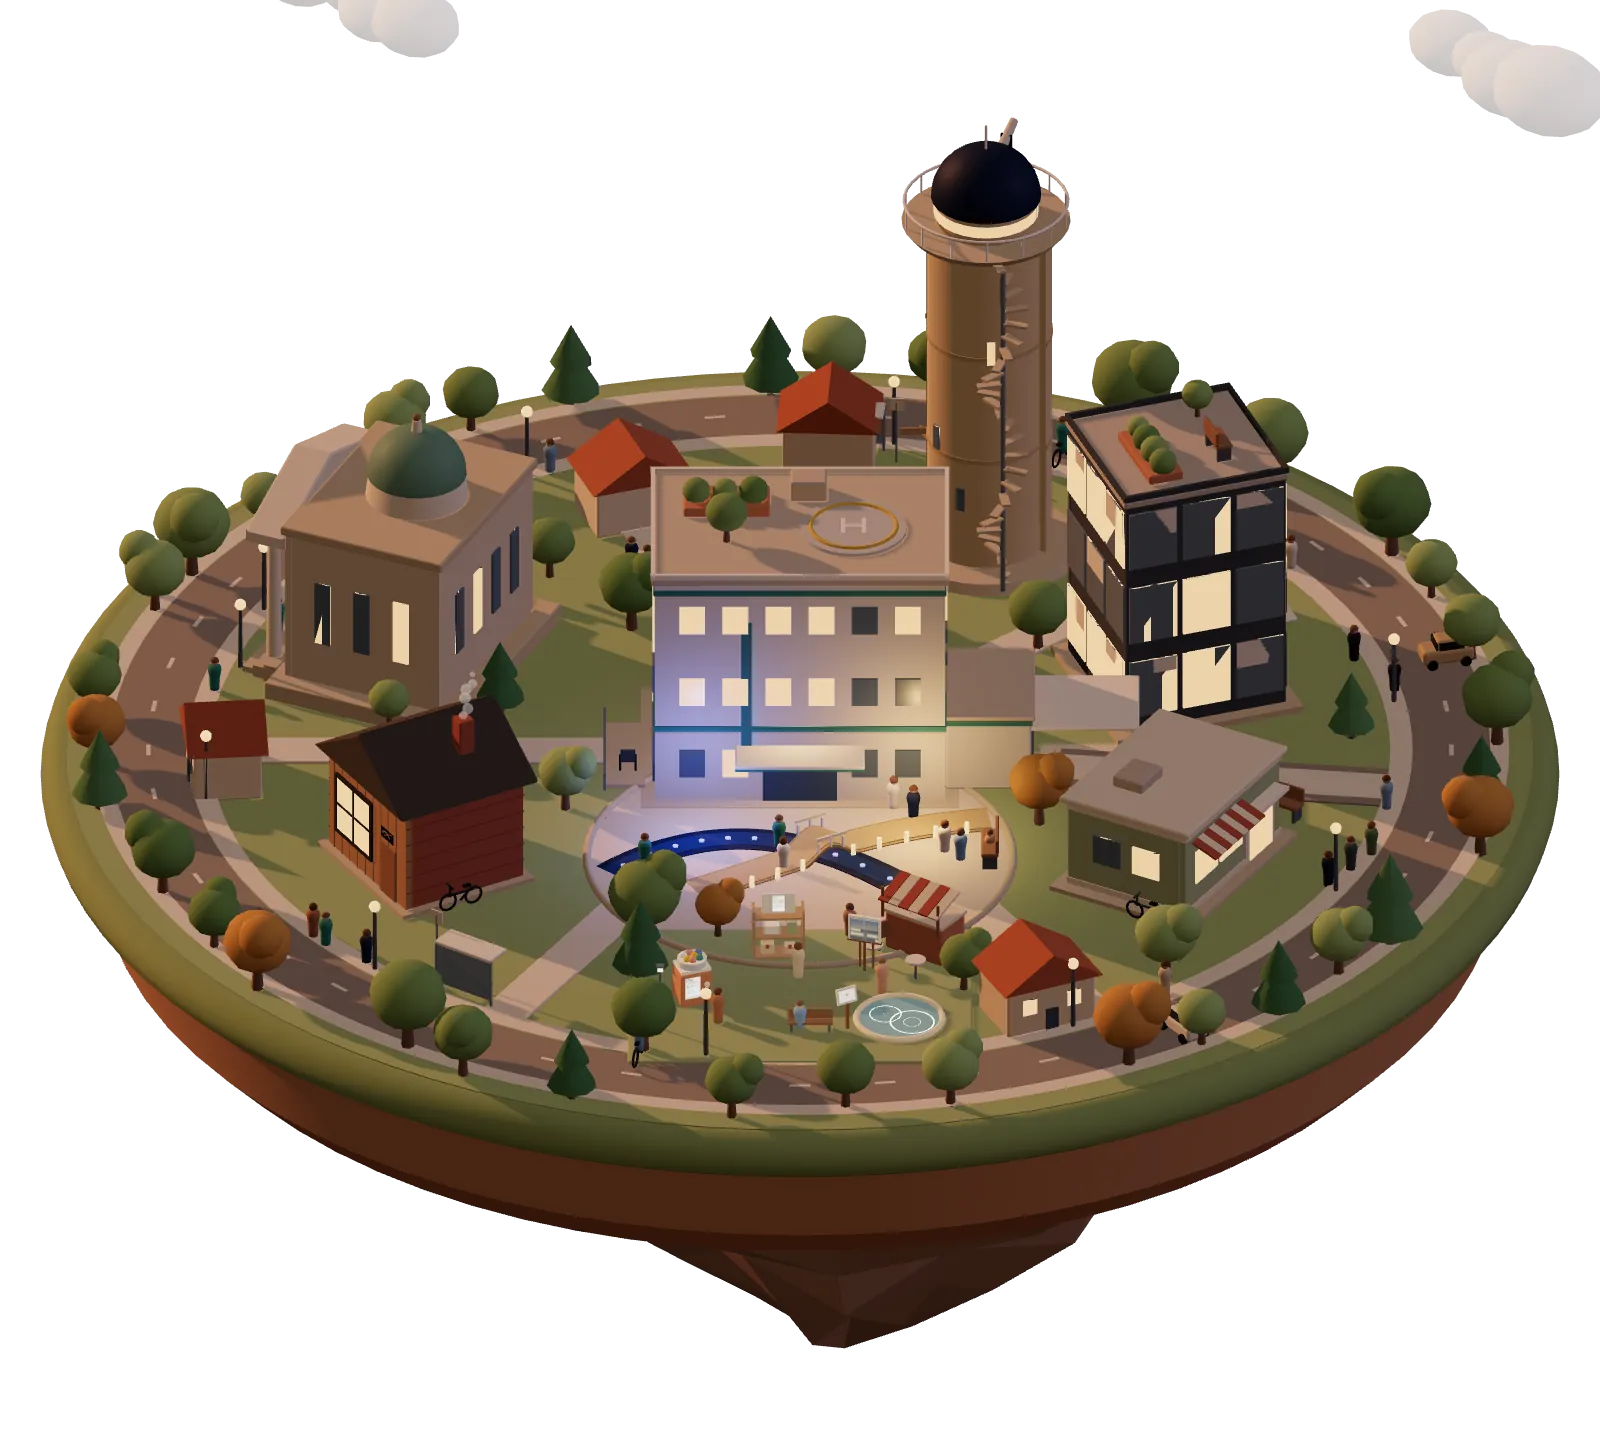
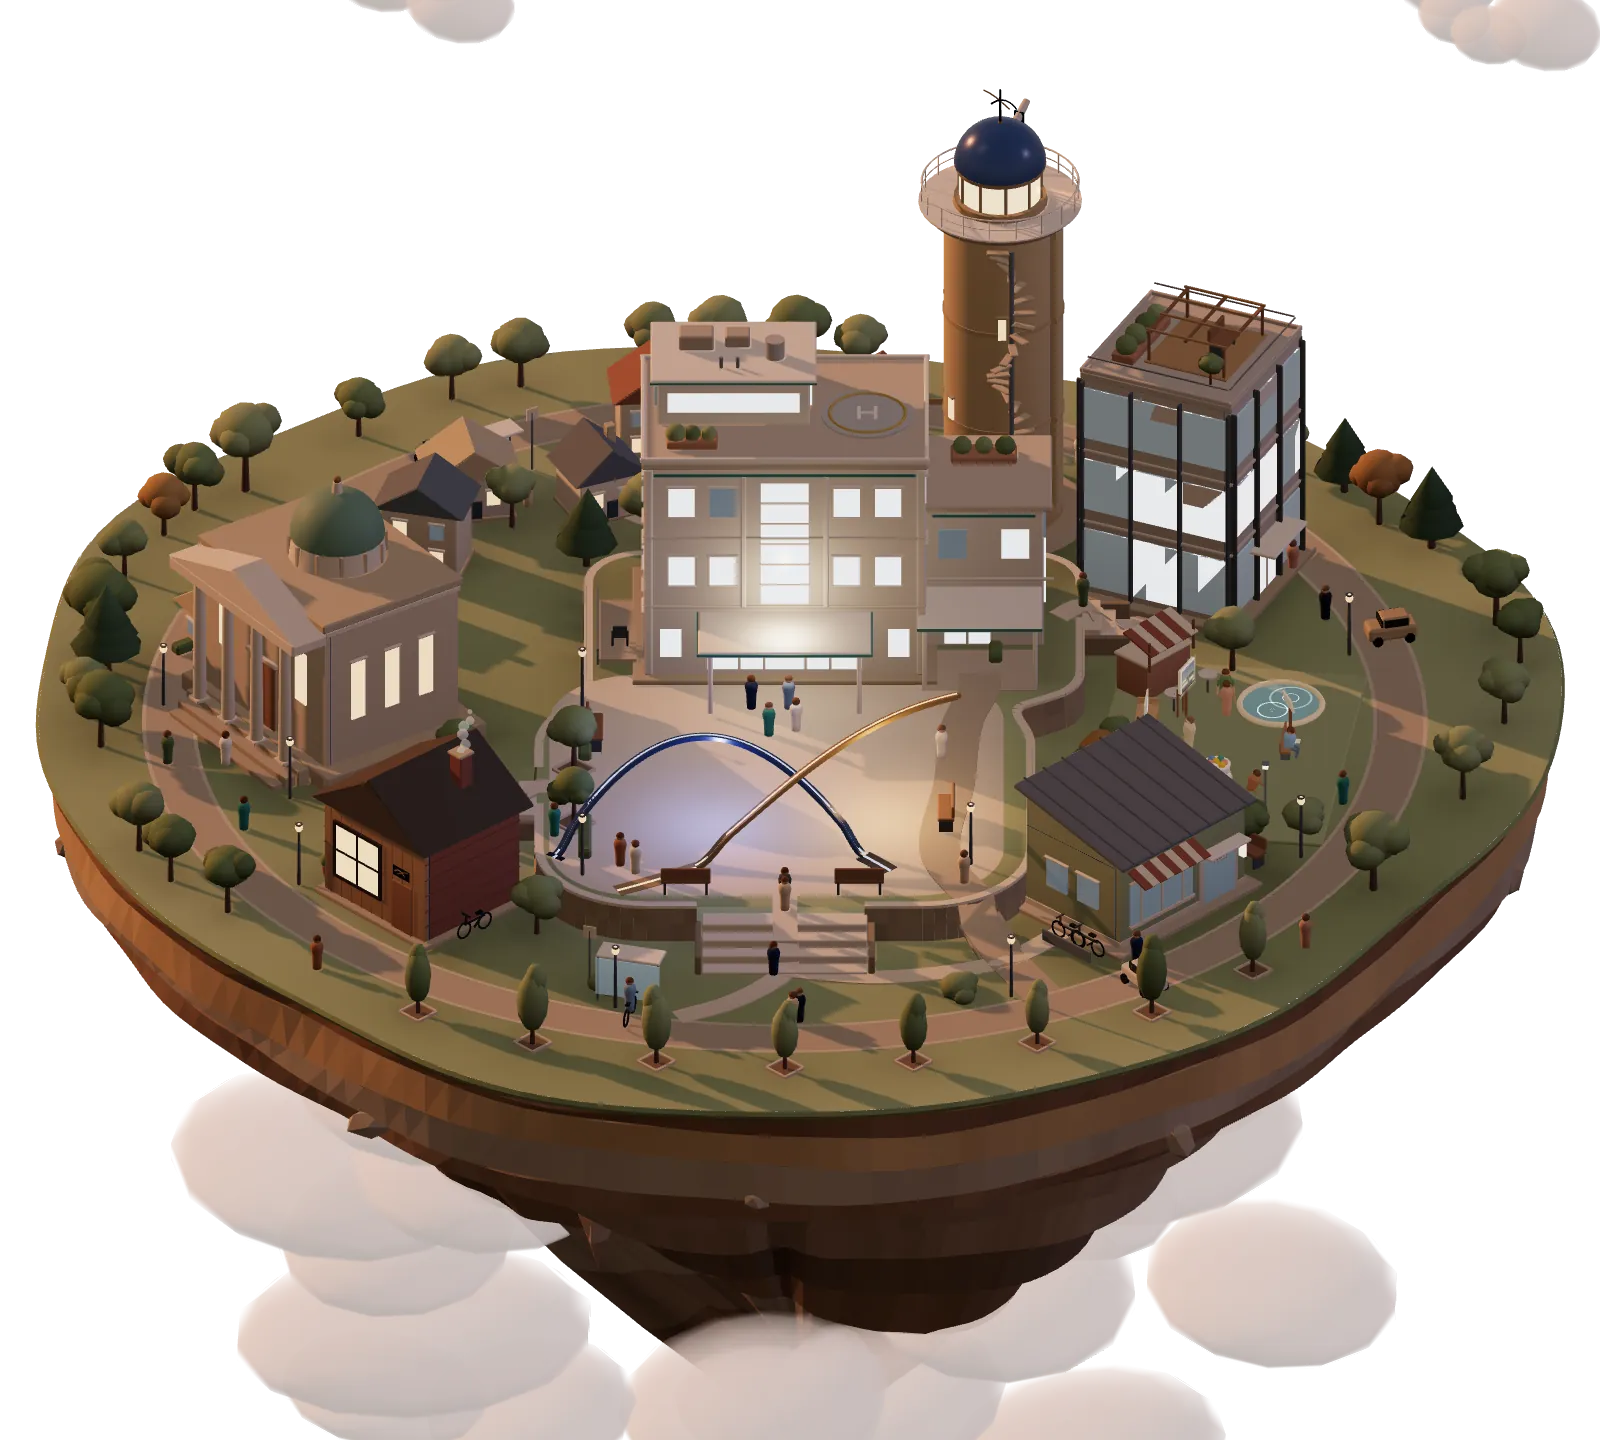
wip(top): 「ひらく町」磨き込み 新しい島に合わせた止めた画像と当たり(途中保存)
Claude-Session: https://claude.ai/code/session_016dwt5JPBcjN3XLYgLUEaNS

diff --git a/proto/top-ad/hiraku2/live.js b/proto/top-ad/hiraku2/live.js
@@ -24,7 +24,7 @@ class Spring {
 /* ---------- 建物の枠(寄るときに画面に収める範囲)と、名前の札の位置 ---------- */
 function boundsOf(id, ex) {
   const b = BOXES[id];
-  if (id === 'plaza') return { pts: ring(2.35, 0, .3), top: .5 };
+  if (id === 'plaza') { const F = plazaFrame(), hh = F.arcTop - F.y; return { pts: ring(2.35, 0, hh), top: hh + .1 }; }   // 広場は台地の上。弧(ロゴの立体)の上まで
   if (b.shape === 'tower') return { pts: ring(1.05, -ex.y0, ex.top), top: ex.top };
   if (b.shape === 'open') return { pts: rect(b.w / 2 + .1, b.d / 2 + .1, 0, ex.top), top: ex.top };
   const X = b.w / 2 + E + WALL, Z = b.d / 2 + E + WALL;
@@ -33,6 +33,15 @@ function boundsOf(id, ex) {
   return { pts, top: ex.top };
 }
 function rect(X, Z, y0, y1) { const o = []; for (const x of [-X, X]) for (const z of [-Z, Z]) for (const y of [y0, y1]) o.push(new THREE.Vector3(x, y, z)); return o; }
+/* 押せる範囲: 箱の外の部分(病院の翼など)も、地面に接する範囲 ex.foot から足す。広場は床だけ(弧は live の中で、弧に沿った小さな箱を足す) */
+function hitParts(id, ex) {
+  if (id === 'plaza') return [ring(2.35, 0, .3)];
+  const b = BOXES[id], lim = b.d / 2 + .2, main = boundsOf(id, ex).pts.filter(p => !(p.z > lim)), fh = Math.min(ex.top, (b.h || 1) * .7);
+  return [main, ...(ex.foot || []).map(([x0, z0, x1, z1]) => rect3(x0, z0, x1, z1, -ex.y0, fh))];
+}
+/* 気づきの輪を出す所(建物の中の座標): 病院の屋上のヘリポート。広場の弧とも、病院の正面とも重ならない */
+function nudgeAt(id, ex) { return id === 'hospital' ? (ex.heli || [1.0, BOXES.hospital.h + .12, .1]) : null; }
+function rect3(x0, z0, x1, z1, y0, y1) { const o = []; for (const x of [x0, x1]) for (const z of [z0, z1]) for (const y of [y0, y1]) o.push(new THREE.Vector3(x, y, z)); return o; }
 function ring(r, y0, y1) { const o = []; for (let i = 0; i < 12; i++) { const a = i / 12 * TAU; for (const y of [y0, y1]) o.push(new THREE.Vector3(Math.cos(a) * r, y, Math.sin(a) * r)); } return o; }
 
 /* 中の灯り: 建物の中ほど(前へ出しすぎると、ひらいた前の地面が照らされすぎる)。小さな建物ほど弱く */
@@ -43,7 +52,7 @@ function inLightOf(id) {
 
 /* 建物の島の上での置き方(島のグループの中の座標) */
 function placeOf(S, id) {
-  if (id === 'plaza') { const { cx, cz } = plazaFrame(); return { p: new THREE.Vector3(cx, 0, cz), yaw: deg(90 - 45), face: 45, y0: 0 }; }
+  if (id === 'plaza') { const { cx, cz, y } = plazaFrame(); return { p: new THREE.Vector3(cx, y || 0, cz), yaw: deg(90 - 45), face: 45, y0: 0 }; }
   const b = S.B[id]; return { p: b.grp.position.clone(), yaw: b.grp.rotation.y, face: b.face, y0: b.ex.y0 };
 }
 
@@ -86,7 +95,7 @@ export async function capture(Q) {
     const spin = deg(pl.face - 45), el = cut === 'park' ? deg(17) : deg(26);
     S.world.rotation.y = spin; S.world.updateMatrixWorld(true);
     aimCamera(camera, new THREE.Vector3(), el);
-    const bd = boundsOf(cut, b.ex), m = new THREE.Matrix4().makeRotationY(spin).multiply(tb), pts = bd.pts.map(p => p.clone().applyMatrix4(m));
+    const bd = boundsOf(cut, b && b.ex), m = new THREE.Matrix4().makeRotationY(spin).multiply(tb), pts = bd.pts.map(p => p.clone().applyMatrix4(m));
     fit(camera, pts, W, H, { x0: W * .06, x1: W * .94, y0: H * .06, y1: H * .94 });
     // 中の灯り(断面の絵でも、中が暗くならないように)
     const pIn = L.pIn, il = inLightOf(cut), c = il.p.applyMatrix4(tb); S.world.localToWorld(c);
@@ -104,12 +113,13 @@ export async function capture(Q) {
   // 建物ごとの位置(枠の %): 名前の札(上)と、押せる範囲
   const pins = {};
   if (mode === 'poster') for (const id of IDS) {
-    const pl = placeOf(S, id), bd = boundsOf(id, id === 'plaza' ? { y0: 0, top: .5 } : S.B[id].ex), m = new THREE.Matrix4().compose(pl.p, new THREE.Quaternion().setFromAxisAngle(new THREE.Vector3(0, 1, 0), pl.yaw), new THREE.Vector3(1, 1, 1));
+    const ex = id === 'plaza' ? null : S.B[id].ex, pl = placeOf(S, id), bd = boundsOf(id, ex), m = new THREE.Matrix4().compose(pl.p, new THREE.Quaternion().setFromAxisAngle(new THREE.Vector3(0, 1, 0), pl.yaw), new THREE.Vector3(1, 1, 1));
     let x0 = 1e9, x1 = -1e9, y0 = 1e9, y1 = -1e9;
-    for (const p of bd.pts) { if (p.z > (BOXES[id] ? BOXES[id].d / 2 + .2 : 9) && id !== 'plaza') continue; const v = p.clone().applyMatrix4(m).project(camera); x0 = Math.min(x0, v.x); x1 = Math.max(x1, v.x); y0 = Math.min(y0, v.y); y1 = Math.max(y1, v.y); }
+    for (const p of hitParts(id, ex).flat()) { const v = p.clone().applyMatrix4(m).project(camera); x0 = Math.min(x0, v.x); x1 = Math.max(x1, v.x); y0 = Math.min(y0, v.y); y1 = Math.max(y1, v.y); }
     const tp = new THREE.Vector3(0, bd.top, 0).applyMatrix4(m).project(camera);
     const pc = (vx, vy) => [+((vx + 1) / 2 * 100).toFixed(2), +((1 - vy) / 2 * 100).toFixed(2)];
     pins[id] = { tag: pc(tp.x, tp.y), box: [...pc(x0, y1), ...pc(x1, y0)] };
+    const na = ex && nudgeAt(id, ex); if (na) { const v = new THREE.Vector3(...na).applyMatrix4(m).project(camera); pins[id].nudge = pc(v.x, v.y); }
   }
   window.__done = { pins, calls: renderer.info.render.calls, tris: renderer.info.render.triangles };
 }
@@ -201,9 +211,9 @@ export function live(o) {
   /* ---- 寄る先(建物を正面に向け、安全な範囲 = パネルやシートを避けた所に収める) ---- */
   const tmpCam = new THREE.OrthographicCamera(-1, 1, 1, -1, .1, 300);
   function frameFor(id) {
-    const pl = placeOf(S, id), bd = boundsOf(id, id === 'plaza' ? { y0: 0, top: .5 } : S.B[id].ex);
+    const pl = placeOf(S, id), bd = boundsOf(id, id === 'plaza' ? null : S.B[id].ex);
     const r = nearestRot(rot.x, deg(pl.face - 45));
-    const el = id === 'park' ? deg(small ? 16 : 22) : id === 'plaza' ? deg(54) : deg(26);
+    const el = id === 'park' ? deg(small ? 16 : 22) : id === 'plaza' ? deg(30) : deg(26);   // 広場は、弧がロゴとして読める低めの角度から
     aimCamera(tmpCam, origin, el);
     const m = new THREE.Matrix4().makeRotationY(r).multiply(new THREE.Matrix4().compose(pl.p, new THREE.Quaternion().setFromAxisAngle(new THREE.Vector3(0, 1, 0), pl.yaw), new THREE.Vector3(1, 1, 1)));
     let x0 = 1e9, x1 = -1e9, y0 = 1e9, y1 = -1e9;
@@ -393,13 +403,18 @@ export function live(o) {
 
   /* ---- 選ぶ(レイキャスト)。建物ごとに見えない箱を置く ---- */
   const ray = new THREE.Raycaster(), ndc = new THREE.Vector2(), hits = [];
+  const hitMat = new THREE.MeshBasicMaterial({ visible: false });
   for (const id of IDS) {
-    const pl = placeOf(S, id), bd = boundsOf(id, id === 'plaza' ? { y0: 0, top: .5 } : S.B[id].ex);
-    const bb = new THREE.Box3(); for (const p of bd.pts) if (!(p.z > (BOXES[id] ? BOXES[id].d / 2 + .2 : 9) && id !== 'plaza')) bb.expandByPoint(p);
-    const sz = bb.getSize(new THREE.Vector3()), c = bb.getCenter(new THREE.Vector3());
-    const hm = new THREE.Mesh(new THREE.BoxGeometry(sz.x, sz.y, sz.z), new THREE.MeshBasicMaterial({ visible: false }));
-    hm.position.copy(c); const holder = new THREE.Object3D(); holder.position.copy(pl.p); holder.rotation.y = pl.yaw; holder.add(hm); S.world.add(holder);
-    hm.userData.id = id; hits.push(hm);
+    const pl = placeOf(S, id), holder = new THREE.Object3D(); holder.position.copy(pl.p); holder.rotation.y = pl.yaw; S.world.add(holder);
+    for (const part of hitParts(id, id === 'plaza' ? null : S.B[id].ex)) {
+      const bb = new THREE.Box3().setFromPoints(part), sz = bb.getSize(new THREE.Vector3()), c = bb.getCenter(new THREE.Vector3());
+      const hm = new THREE.Mesh(new THREE.BoxGeometry(Math.max(sz.x, .05), Math.max(sz.y, .05), Math.max(sz.z, .05)), hitMat);
+      hm.position.copy(c); holder.add(hm); hm.userData.id = id; hits.push(hm);
+    }
+  }
+  if (S.plazaInfo) for (const arc of [S.plazaInfo.aI, S.plazaInfo.aS]) for (let i = 0; i < (arc || []).length; i += 2) {   // 弧(島の座標)に沿って
+    const [x, y, z] = arc[i]; if (y < plazaFrame().y + .12) continue;
+    const hm = new THREE.Mesh(new THREE.BoxGeometry(.32, .32, .32), hitMat); hm.position.set(x, y, z); S.world.add(hm); hm.userData.id = 'plaza'; hits.push(hm);
   }
   const groundHit = new THREE.Mesh(new THREE.CylinderGeometry(9, 9, .1, 24), new THREE.MeshBasicMaterial({ visible: false })); S.world.add(groundHit);
   let rects = {};
@@ -592,15 +607,16 @@ export function live(o) {
   function layout() {
     const out = { b: {}, st: [] };
     for (const id of IDS) {
-      const pl = placeOf(S, id), bd = boundsOf(id, id === 'plaza' ? { y0: 0, top: .5 } : S.B[id].ex);
+      const ex = id === 'plaza' ? null : S.B[id].ex, pl = placeOf(S, id), bd = boundsOf(id, ex);
       const m = new THREE.Matrix4().makeRotationY(rot.x).multiply(new THREE.Matrix4().compose(pl.p, new THREE.Quaternion().setFromAxisAngle(Y, pl.yaw), one));
       const tp = new THREE.Vector3(0, bd.top + (liftId === id ? lift.x : 0), 0).applyMatrix4(m).project(camera);
       const cp = new THREE.Vector3(0, bd.top * .45, 0).applyMatrix4(m).project(camera);
-      const dr = id === 'plaza' ? [0, 0] : S.B[id].ex.door || [0, 0], fp = new THREE.Vector3(dr[0], 0, dr[1]).applyMatrix4(m).project(camera);
+      const dr = id === 'plaza' ? [0, 0] : ex.door || [0, 0], fp = new THREE.Vector3(dr[0], 0, dr[1]).applyMatrix4(m).project(camera);
       let x0 = 1e9, y0 = 1e9, x1 = -1e9, y1 = -1e9;
-      for (const p of bd.pts) { const v = p.clone().applyMatrix4(m).project(camera), sx = (v.x + 1) / 2 * W, sy = (1 - v.y) / 2 * H; x0 = Math.min(x0, sx); x1 = Math.max(x1, sx); y0 = Math.min(y0, sy); y1 = Math.max(y1, sy); }
+      for (const p of hitParts(id, ex).flat()) { const v = p.clone().applyMatrix4(m).project(camera), sx = (v.x + 1) / 2 * W, sy = (1 - v.y) / 2 * H; x0 = Math.min(x0, sx); x1 = Math.max(x1, sx); y0 = Math.min(y0, sy); y1 = Math.max(y1, sy); }
       rects[id] = [x0, y0, x1, y1];
       out.b[id] = { tag: [(tp.x + 1) / 2 * W, (1 - tp.y) / 2 * H], c: [(cp.x + 1) / 2 * W, (1 - cp.y) / 2 * H], foot: [(fp.x + 1) / 2 * W, (1 - fp.y) / 2 * H], r: rects[id] };
+      const na = ex && nudgeAt(id, ex); if (na) { const v = new THREE.Vector3(...na); if (liftId === id) v.y += lift.x; v.applyMatrix4(m).project(camera); out.b[id].nudge = [(v.x + 1) / 2 * W, (1 - v.y) / 2 * H]; }
     }
     if (A.id) out.st = stationsOnScreen();
     o.onLayout(out);

diff --git a/proto/top-ad/hiraku2/index.html b/proto/top-ad/hiraku2/index.html
@@ -30,7 +30,7 @@
   --jp:'BIZ UDPGothic','Hiragino Sans','Noto Sans JP',sans-serif;
   --en:'Barlow','Helvetica Neue',Arial,sans-serif;
   --ease:cubic-bezier(.2,.8,.2,1);
-  --cl:15.6;--cr:82.0;--ct:4.9;--cb:74.3;
+  --cl:5.3;--cr:87.7;--ct:2.2;--cb:68.1;
 }
 *,*::before,*::after{box-sizing:border-box}
 html{-webkit-text-size-adjust:100%;background:var(--paper)}
@@ -349,14 +349,14 @@ html.capture body > *:not(#cap){display:none!important}
     <p class="meta">10の質問・約3分・登録不要</p>
   </div>
   <nav class="hits" id="hits" aria-label="町の建物">
-    <a class="hit" href="#g-hospital" data-id="hospital" data-tag="50,34.45" data-box="40.92,30.79,59.08,55.88" aria-label="病院 — 明日の業務を楽にする"></a>
-    <a class="hit" href="#g-observatory" data-id="observatory" data-tag="61.62,8.57" data-box="55.98,5.92,67.27,41.18" aria-label="展望台 — キャリア・経験を整理する"></a>
-    <a class="hit" href="#g-clinic" data-id="clinic" data-tag="73.35,52.44" data-box="66.77,48.33,79.94,64.04" aria-label="クリニック — 医療経営を学ぶ"></a>
-    <a class="hit" href="#g-office" data-id="office" data-tag="73.57,28.67" data-box="66.76,24.77,80.37,51.21" aria-label="事務所 — 経営・管理の実務に使う"></a>
-    <a class="hit" href="#g-library" data-id="library" data-tag="25.56,28.65" data-box="17.82,23.77,33.3,50.57" aria-label="図書館 — 学習を続ける"></a>
-    <a class="hit" href="#g-park" data-id="park" data-tag="50,64.21" data-box="38.67,59.28,61.33,74.29" aria-label="公園 — 気軽に試す・作品を楽しむ"></a>
-    <a class="hit" href="#g-atelier" data-id="atelier" data-tag="26.65,48.33" data-box="20.6,44.76,32.69,63.51" aria-label="アトリエ — 運営者"></a>
-    <a class="hit" href="#g-plaza" data-id="plaza" data-tag="50,57.21" data-box="37.33,50.99,62.67,67.04" aria-label="広場 — 正解を与えるのではなく、選択肢を増やす"></a>
+    <a class="hit" href="#g-hospital" data-id="hospital" data-tag="49.05,23.8" data-box="37.25,20.3,65.5,47.27" aria-label="病院 — 明日の業務を楽にする"></a>
+    <a class="hit" href="#g-observatory" data-id="observatory" data-tag="62.51,5.83" data-box="54.83,3.19,70.2,40.09" aria-label="展望台 — キャリア・経験を整理する"></a>
+    <a class="hit" href="#g-clinic" data-id="clinic" data-tag="70.97,52.89" data-box="62.02,48.98,80.69,68.1" aria-label="クリニック — 医療経営を学ぶ"></a>
+    <a class="hit" href="#g-office" data-id="office" data-tag="74.44,21.16" data-box="66.31,17.29,82.57,44.65" aria-label="事務所 — 経営・管理の実務に使う"></a>
+    <a class="hit" href="#g-library" data-id="library" data-tag="20.66,33.27" data-box="7.51,28.5,30.42,56.18" aria-label="図書館 — 学習を続ける"></a>
+    <a class="hit" href="#g-park" data-id="park" data-tag="76.42,47.46" data-box="66.72,40.65,86.11,59.18" aria-label="公園 — 気軽に試す・作品を楽しむ"></a>
+    <a class="hit" href="#g-atelier" data-id="atelier" data-tag="26.38,51.15" data-box="19.25,47.66,33.87,66.63" aria-label="アトリエ — 運営者"></a>
+    <a class="hit" href="#g-plaza" data-id="plaza" data-tag="48.02,48.91" data-box="35.88,49.39,60.16,64.76" aria-label="広場 — 正解を与えるのではなく、選択肢を増やす"></a>
   </nav>
   <p class="hint" id="hint">建物にふれると、中がひらきます</p>
 </section>

diff --git a/proto/top-ad/hiraku2/hiraku.js b/proto/top-ad/hiraku2/hiraku.js
@@ -52,7 +52,7 @@ function boot() {
   /* ---------- 見えないボタンと名前の札の位置(止めた画像のときは、撮ったときの位置から) ---------- */
   const heroRect = () => hero.getBoundingClientRect();
   function placeHit(a, cx, cy, w, h) { w = Math.max(44, w); h = Math.max(44, h); a.style.transform = `translate(${(cx - w / 2).toFixed(1)}px,${(cy - h / 2).toFixed(1)}px)`; a.style.width = w.toFixed(0) + 'px'; a.style.height = h.toFixed(0) + 'px'; }
-  let tagPos = {}, footPos = {}, hitPos = {};
+  let tagPos = {}, footPos = {}, hitPos = {}, nudgePos = null;
   function stillLayout() {
     if (ctl) return;
     const hr = heroRect(), br = still.getBoundingClientRect(); if (!br.width) return;
@@ -62,6 +62,7 @@ function boot() {
       placeHit(a, cx, cy, (x1 - x0) / 100 * br.width, (y1 - y0) / 100 * br.height);
       tagPos[id] = [L + tx / 100 * br.width, T + ty / 100 * br.height];
       footPos[id] = [cx, T + (y1 - (y1 - y0) * .08) / 100 * br.height];
+      if (a.dataset.nudge) { const [nx, ny] = a.dataset.nudge.split(',').map(Number); nudgePos = [L + nx / 100 * br.width, T + ny / 100 * br.height]; }
       hitPos[id] = [L + x0 / 100 * br.width, T + y0 / 100 * br.height, L + x1 / 100 * br.width, T + y1 / 100 * br.height];
     }
     if (tagFor) showTag(tagFor, true);
@@ -80,8 +81,9 @@ function boot() {
 
   /* ---------- ふれられることの気づき(最初の訪問だけ)と、押したときの輪 ---------- */
   function placeNudge() {
-    if (!nudgeOn || !footPos.hospital) return;
-    nudge.style.transform = `translate(${footPos.hospital[0].toFixed(1)}px,${footPos.hospital[1].toFixed(1)}px)`;
+    const p = nudgePos || footPos.hospital;
+    if (!nudgeOn || !p) return;
+    nudge.style.transform = `translate(${p[0].toFixed(1)}px,${p[1].toFixed(1)}px)`;
     nudge.hidden = false;
   }
   function endNudge() {
@@ -303,7 +305,7 @@ function boot() {
         },
         onLayout(L2) {
           const hr = heroRect(), cr = canvas.getBoundingClientRect(), ox = cr.left - hr.left, oy = cr.top - hr.top;
-          for (const [id, a] of hits) { const p = L2.b[id]; if (!p) continue; tagPos[id] = [ox + p.tag[0], oy + p.tag[1]]; footPos[id] = [ox + p.foot[0], oy + p.foot[1]]; placeHit(a, ox + p.c[0], oy + p.c[1], 64, 64); }
+          for (const [id, a] of hits) { const p = L2.b[id]; if (!p) continue; tagPos[id] = [ox + p.tag[0], oy + p.tag[1]]; footPos[id] = [ox + p.foot[0], oy + p.foot[1]]; if (p.nudge) nudgePos = [ox + p.nudge[0], oy + p.nudge[1]]; placeHit(a, ox + p.c[0], oy + p.c[1], 64, 64); }
           placeNudge();
           if (tagFor) { const p = tagPos[tagFor]; tagB.style.left = p[0].toFixed(1) + 'px'; tagB.style.top = p[1].toFixed(1) + 'px'; }
           sPos = {}; for (const s of L2.st) sPos[s.id] = { x: ox + s.x, y: oy + s.y - 14, label: s.label };
